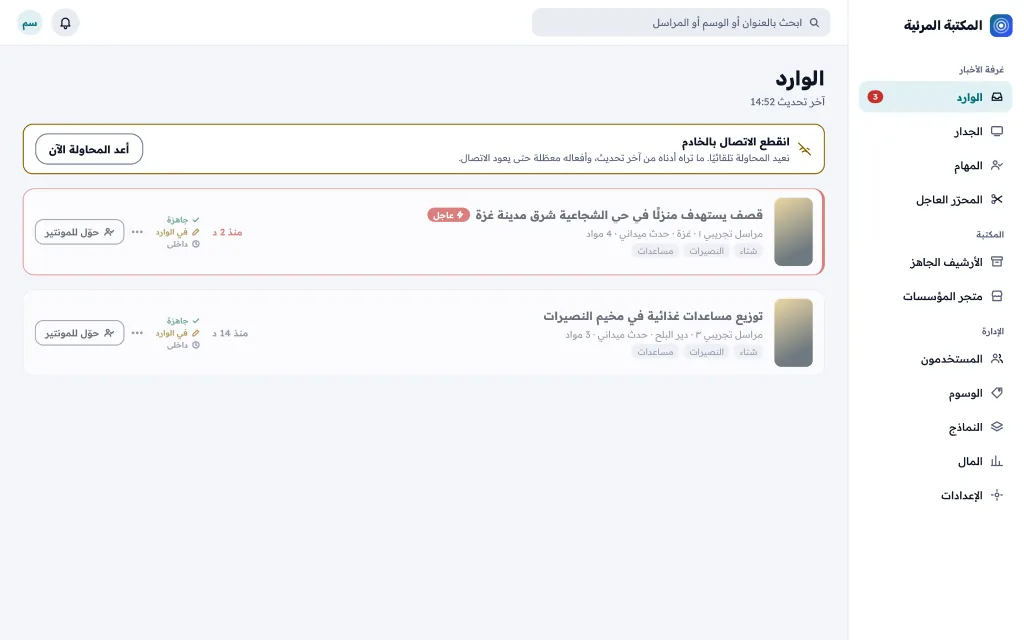
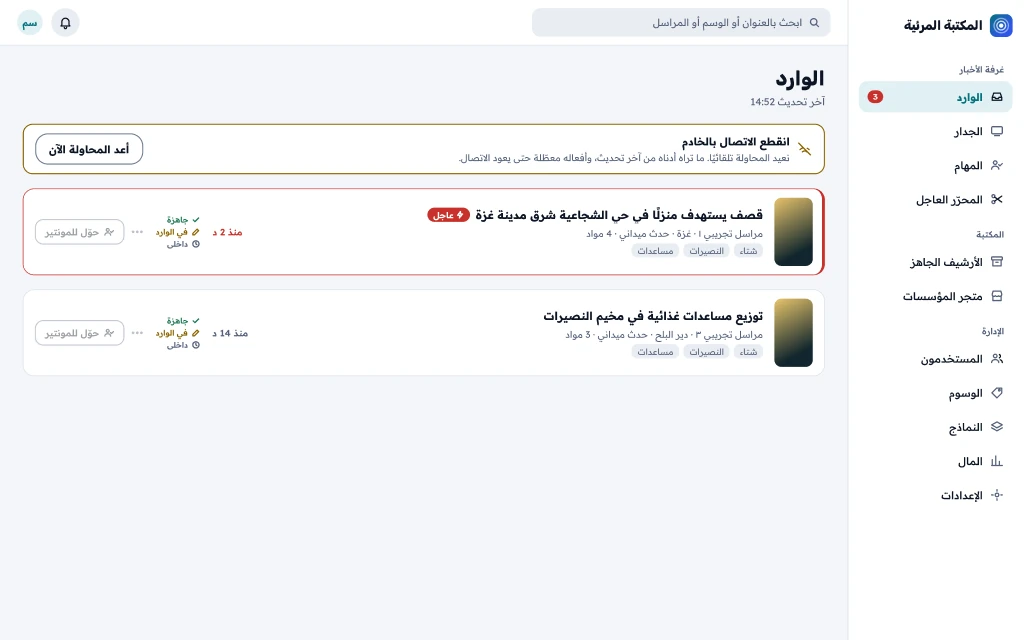
design: second quality and security review on PR #457
- M1: the fourth card's meta line wraps instead of clipping.
- M3: the sensitive card has no rushes download on the phone layout;
  it says "watch here, download from the desktop" (coordinator's
  interim rule), and the footer line excludes sensitive material.
- E3: stale rows keep full contrast (no row-level fade); only their
  actions are dimmed and disabled. Spec wording updated to match.
- ADR 0085: the reason for the tablet icon rail, and an amendment note.

Claude-Session: https://claude.ai/code/session_01HY7py4Kwox1KypVxZuFGKP

diff --git a/docs/design/specs/web-v2.md b/docs/design/specs/web-v2.md
@@ -65,7 +65,7 @@
 |---|---|---|
 | M1 | الوارد (جوال) | بطاقة لكل مادة: صورة مصغّرة، والعنوان على سطرين، ثم سطر الوقت والمراسل والمحافظة؛ العاجل حدّ وشارة وكلمة؛ زرّ «حوّل» بكلمته (≥ 44)؛ مرشّحا المحافظة والتاريخ ومؤشّرات W1 خلف «تصفية» في الشريط العلوي |
 | M2 | تفاصيل المادة (جوال) | المشغّل 16:9، والحالات الثلاث منفصلة، وسطر الحساسية؛ في أسفل الشاشة «استلام» الفعل الأساسي (كالخطوة التالية في W2) و«حوّل للمونتير» ثانويًا |
-| M3 | مهامي (جوال) | المتأخر أولًا ثم الأقرب موعدًا؛ تنزيل الرشزات ورفع المادة متاحان، والمونتاج نفسه على الحاسوب. المادة الحسّاسة تحمل شارة «حسّاسة». **سؤال مفتوح للمنسّق:** هل تُنزَّل رشزات المادة الحسّاسة على الجوال؟ |
+| M3 | مهامي (جوال) | المتأخر أولًا ثم الأقرب موعدًا؛ تنزيل الرشزات ورفع المادة متاحان، والمونتاج نفسه على الحاسوب. **المادة الحسّاسة** (شارة «حسّاسة») **لا تُنزَّل رشزاتها على تخطيط الجوال**: تُشاهَد بالبثّ، وتُنزَّل من الحاسوب، وبطاقتها تقول ذلك مكان زرّ التنزيل. قاعدة مؤقتة من المنسّق، بانتظار تأكيد المالك |
 | M4 | المتجر (جوال، داكن) | بطاقة بعرض الشاشة، والمعاينة بعلامة مائية؛ الترخيص والشراء كما على الحاسوب |
 | M5 | المال (جوال) | جدول A4 يصير قائمة سجلّات: سطر للاسم والنصيب، وسطر للبيع والصافي والحالة، والمجموع في الأسفل؛ معادلة A4 بنصّها فوق القائمة. المبالغ المنفردة تحمل رمز العملة لأنها ليست أعمدة |
 | T1 | الوارد (تابلت) | شريط الأيقونات بدل الشريط الكامل، والصفوف كما على الحاسوب، وأفعالها بارتفاع 44 |
@@ -78,7 +78,7 @@
 |---|---|---|
 | E1 | الوارد فارغ | يقول متى تصل المواد ومتى وصلت آخر واحدة؛ وعدّاد الشريط الجانبي يختفي |
 | E2 | التحميل | هياكل بشكل الصفوف الحقيقية، بلا دوّارة؛ ومع «تقليل الحركة» بلا وميض |
-| E3 | انقطاع الاتصال | لافتة تقول إن المحاولة تتكرّر تلقائيًا، وزرّ «أعد المحاولة الآن»؛ آخر بيانات معروضة باهتة (تباين نصّها ≥ 4.5:1) مع وقت آخر تحديث، **وأفعالها معطّلة** حتى يعود الاتصال (الكتابة بعده بـ `Idempotency-Key`) |
+| E3 | انقطاع الاتصال | لافتة تقول إن المحاولة تتكرّر تلقائيًا، وزرّ «أعد المحاولة الآن»؛ آخر بيانات معروضة كما هي، بلا بهتان يُنزل تباين نصّها عمّا في W1، ومعها وقت آخر تحديث، **وأفعالها معطّلة** (باهتة، والتعطيل يُعفى من شرط التباين) حتى يعود الاتصال (الكتابة بعده بـ `Idempotency-Key`) |
 | E4 | بحث بلا نتائج | المرشّحات النشطة رقاقات قابلة للإزالة، و«امسح الكل»، واقتراح بعدد النتائج بلا مرشّحات |
 | E5 | لا صلاحية | يقول الدور وما يملكه؛ والشريط الجانبي لا يعرض ما لا يملكه الدور (المحرّر: غرفة الأخبار والأرشيف). «اطلب الوصول» **مقترح** خارج الخطة والعقد، يحتاج موافقة المنسّق قبل بنائه (ومعه حدّ طول للسبب وتهريبه وتحديد معدّل وسجل تدقيق) |
 | E6 | المتجر بلا نتائج | يقول لماذا (المواد تظهر بعد المراجعة واعتماد الحقوق)، و«أشعرني حين تصل» (البحث المحفوظ بتنبيه في الخطة)؛ الفعل الأساسي ذهبي ثابت كما في S1 وS3 |

diff --git a/docs/plan/decisions/0085-visual-identity-v2.md b/docs/plan/decisions/0085-visual-identity-v2.md
@@ -24,5 +24,5 @@
 
 - فترة تعايش بين مجموعتي رموز في الويب؛ تُحذف القديمة حين لا يبقى مستهلك لها.
 - كل وصولية العقد الحالية (WCAG 2.1 AA، RTL أولًا) تبقى شرطًا على v2.
-- تنقّل الويب v2 بنقاط الشبكة القائمة (`design-system.md`): شريط سفلي دون 768، وشريط أيقونات في 768–1199، والشريط الكامل من 1200. وهذا يحلّ محلّ قاعدة `editor.md` (القائمة العلوية دون 1000) لشاشات v2؛ التفصيل في `specs/web-v2.md` (إضافة 2026-11-02).
+- تنقّل الويب v2 بنقاط الشبكة القائمة (`design-system.md`): شريط سفلي دون 768، وشريط أيقونات في 768–1199، والشريط الكامل من 1200. وهذا يحلّ محلّ قاعدة `editor.md` (القائمة العلوية دون 1000) لشاشات v2، لأن اللوح جهاز لمسي يحتاج تنقّلًا ظاهرًا دائمًا لا قائمة مطويّة؛ التفصيل في `specs/web-v2.md` (إضافة 2026-11-02، تعديل بموافقة المنسّق عند الدمج).
 - تغيير القرار لاحقًا يكلّف إعادة الرموز والمكوّنات، لا البيانات ولا العقود.
